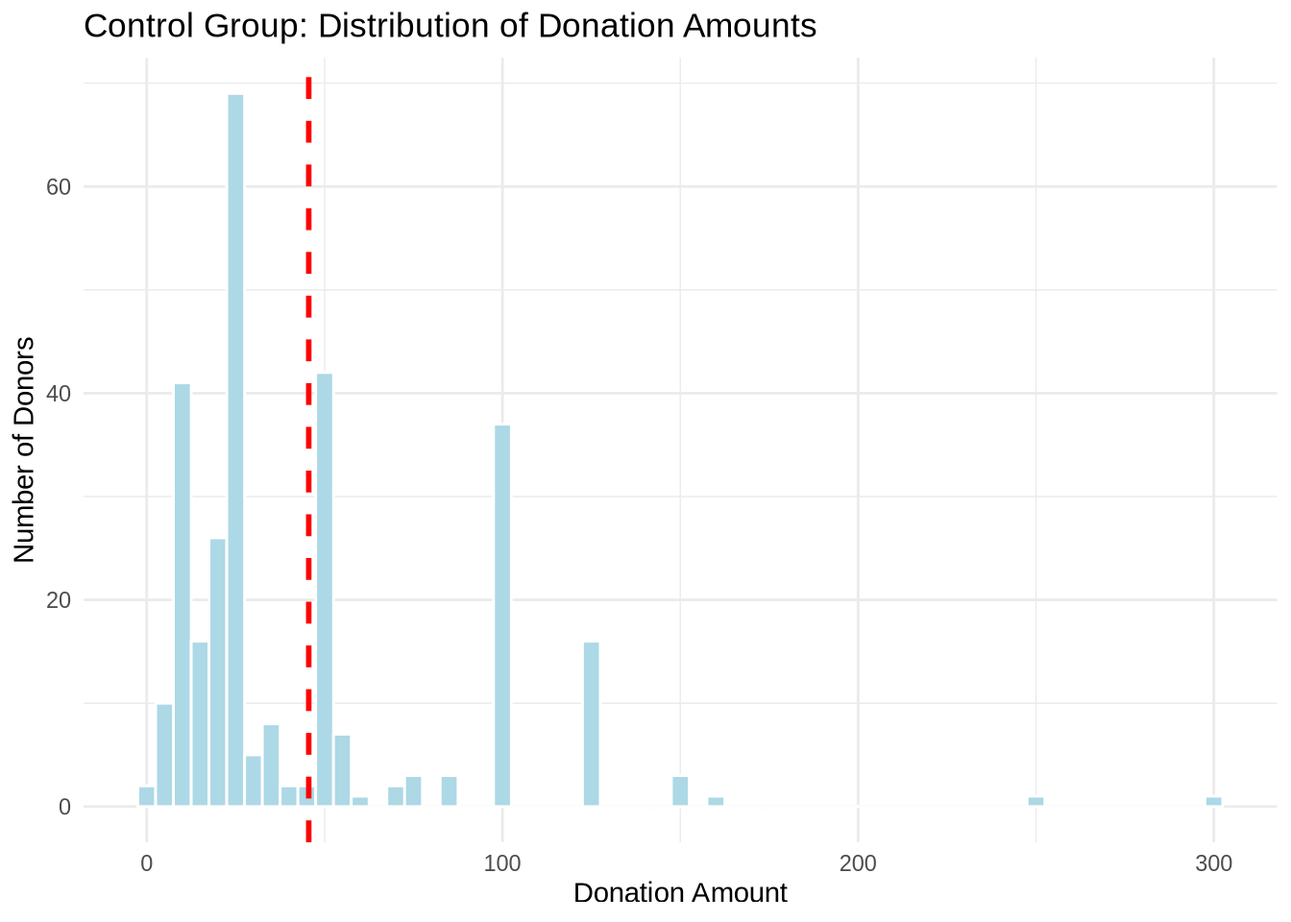
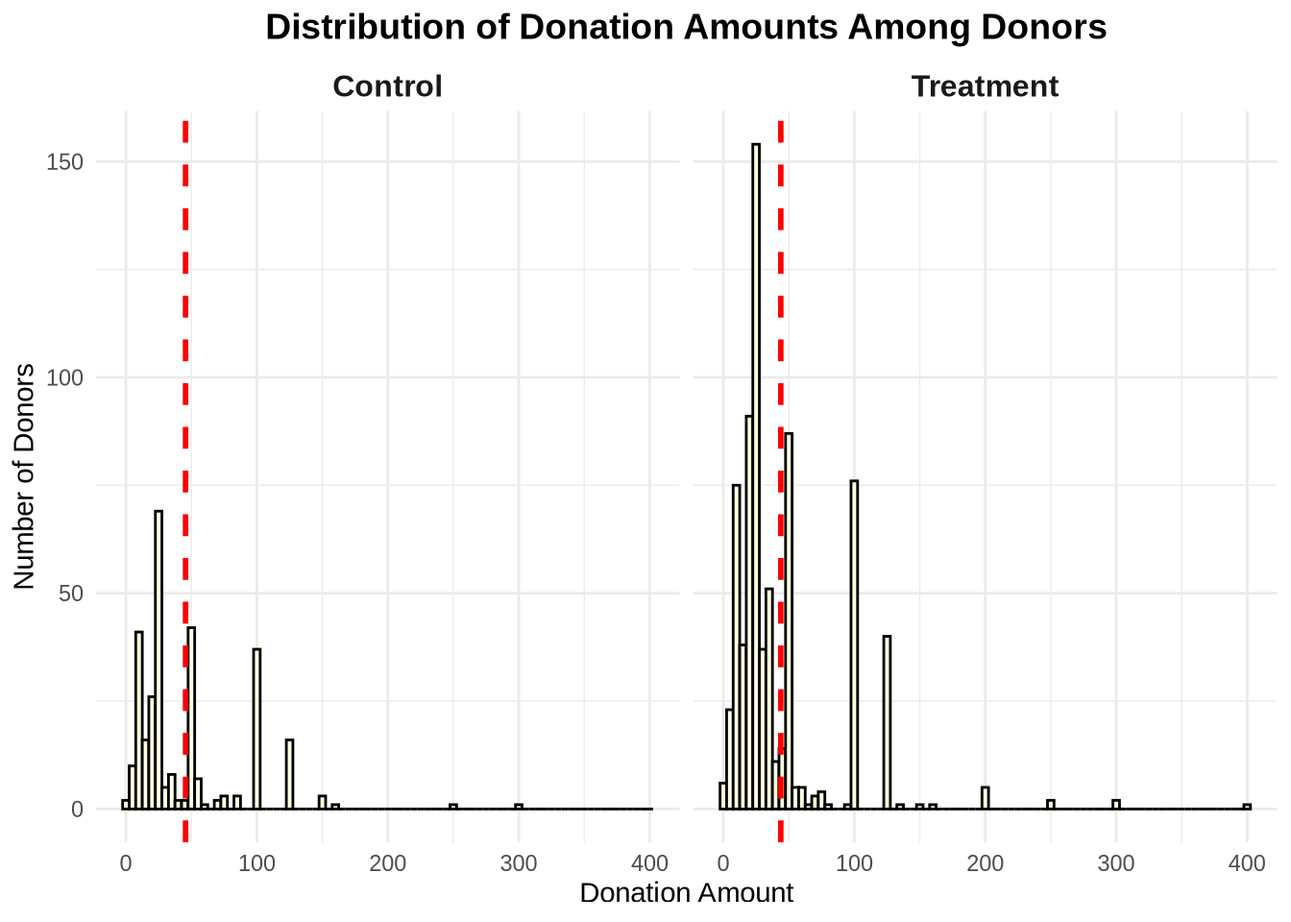
pushh

diff --git a/docs/projects/project2/hw1_questions.html b/docs/projects/project2/hw1_questions.html
@@ -7,7 +7,7 @@
 <meta name="viewport" content="width=device-width, initial-scale=1.0, user-scalable=yes">
 
 <meta name="author" content="Isha Rathi">
-<meta name="dcterms.date" content="2025-04-20">
+<meta name="dcterms.date" content="2025-04-21">
 
 <title>A Replication of Karlan and List (2007) – Isha’s Marketing Website</title>
 <style>
@@ -210,7 +210,7 @@ pre > code.sourceCode > span > a:first-child::before { text-decoration: underlin
     <div>
     <div class="quarto-title-meta-heading">Published</div>
     <div class="quarto-title-meta-contents">
-      <p class="date">April 20, 2025</p>
+      <p class="date">April 21, 2025</p>
     </div>
   </div>
   
@@ -806,19 +806,34 @@ Variable Definitions
 <span id="cb36-4"><a href="#cb36-4" aria-hidden="true" tabindex="-1"></a><span class="co"># Filter to only donors</span></span>
 <span id="cb36-5"><a href="#cb36-5" aria-hidden="true" tabindex="-1"></a>df_donors <span class="ot">&lt;-</span> df <span class="sc">%&gt;%</span> <span class="fu">filter</span>(gave <span class="sc">==</span> <span class="dv">1</span>)</span>
 <span id="cb36-6"><a href="#cb36-6" aria-hidden="true" tabindex="-1"></a></span>
-<span id="cb36-7"><a href="#cb36-7" aria-hidden="true" tabindex="-1"></a><span class="co"># Compute group means</span></span>
-<span id="cb36-8"><a href="#cb36-8" aria-hidden="true" tabindex="-1"></a>mean_donations <span class="ot">&lt;-</span> df_donors <span class="sc">%&gt;%</span></span>
-<span id="cb36-9"><a href="#cb36-9" aria-hidden="true" tabindex="-1"></a>  <span class="fu">group_by</span>(treatment) <span class="sc">%&gt;%</span></span>
-<span id="cb36-10"><a href="#cb36-10" aria-hidden="true" tabindex="-1"></a>  <span class="fu">summarise</span>(<span class="at">avg =</span> <span class="fu">mean</span>(amount))</span>
-<span id="cb36-11"><a href="#cb36-11" aria-hidden="true" tabindex="-1"></a></span>
-<span id="cb36-12"><a href="#cb36-12" aria-hidden="true" tabindex="-1"></a><span class="co"># Histogram for Control Group</span></span>
-<span id="cb36-13"><a href="#cb36-13" aria-hidden="true" tabindex="-1"></a><span class="fu">ggplot</span>(df_donors <span class="sc">%&gt;%</span> <span class="fu">filter</span>(treatment <span class="sc">==</span> <span class="dv">0</span>), <span class="fu">aes</span>(<span class="at">x =</span> amount)) <span class="sc">+</span></span>
-<span id="cb36-14"><a href="#cb36-14" aria-hidden="true" tabindex="-1"></a>  <span class="fu">geom_histogram</span>(<span class="at">binwidth =</span> <span class="dv">5</span>, <span class="at">fill =</span> <span class="st">"lightblue"</span>, <span class="at">color =</span> <span class="st">"white"</span>) <span class="sc">+</span></span>
-<span id="cb36-15"><a href="#cb36-15" aria-hidden="true" tabindex="-1"></a>  <span class="fu">geom_vline</span>(<span class="at">xintercept =</span> mean_donations<span class="sc">$</span>avg[mean_donations<span class="sc">$</span>treatment <span class="sc">==</span> <span class="dv">0</span>],</span>
-<span id="cb36-16"><a href="#cb36-16" aria-hidden="true" tabindex="-1"></a>             <span class="at">color =</span> <span class="st">"red"</span>, <span class="at">linetype =</span> <span class="st">"dashed"</span>, <span class="at">linewidth =</span> <span class="dv">1</span>) <span class="sc">+</span></span>
-<span id="cb36-17"><a href="#cb36-17" aria-hidden="true" tabindex="-1"></a>  <span class="fu">labs</span>(<span class="at">title =</span> <span class="st">"Control Group: Distribution of Donation Amounts"</span>,</span>
-<span id="cb36-18"><a href="#cb36-18" aria-hidden="true" tabindex="-1"></a>       <span class="at">x =</span> <span class="st">"Donation Amount"</span>, <span class="at">y =</span> <span class="st">"Number of Donors"</span>) <span class="sc">+</span></span>
-<span id="cb36-19"><a href="#cb36-19" aria-hidden="true" tabindex="-1"></a>  <span class="fu">theme_minimal</span>()</span></code><button title="Copy to Clipboard" class="code-copy-button"><i class="bi"></i></button></pre></div>
+<span id="cb36-7"><a href="#cb36-7" aria-hidden="true" tabindex="-1"></a><span class="co"># Add group label</span></span>
+<span id="cb36-8"><a href="#cb36-8" aria-hidden="true" tabindex="-1"></a>df_donors <span class="ot">&lt;-</span> df_donors <span class="sc">%&gt;%</span></span>
+<span id="cb36-9"><a href="#cb36-9" aria-hidden="true" tabindex="-1"></a>  <span class="fu">mutate</span>(<span class="at">group =</span> <span class="fu">ifelse</span>(treatment <span class="sc">==</span> <span class="dv">1</span>, <span class="st">"Treatment"</span>, <span class="st">"Control"</span>))</span>
+<span id="cb36-10"><a href="#cb36-10" aria-hidden="true" tabindex="-1"></a></span>
+<span id="cb36-11"><a href="#cb36-11" aria-hidden="true" tabindex="-1"></a><span class="co"># Compute group means for vlines</span></span>
+<span id="cb36-12"><a href="#cb36-12" aria-hidden="true" tabindex="-1"></a>mean_donations <span class="ot">&lt;-</span> df_donors <span class="sc">%&gt;%</span></span>
+<span id="cb36-13"><a href="#cb36-13" aria-hidden="true" tabindex="-1"></a>  <span class="fu">group_by</span>(group) <span class="sc">%&gt;%</span></span>
+<span id="cb36-14"><a href="#cb36-14" aria-hidden="true" tabindex="-1"></a>  <span class="fu">summarise</span>(<span class="at">avg =</span> <span class="fu">mean</span>(amount), <span class="at">.groups =</span> <span class="st">"drop"</span>)</span>
+<span id="cb36-15"><a href="#cb36-15" aria-hidden="true" tabindex="-1"></a></span>
+<span id="cb36-16"><a href="#cb36-16" aria-hidden="true" tabindex="-1"></a><span class="co"># Merge means back into original data</span></span>
+<span id="cb36-17"><a href="#cb36-17" aria-hidden="true" tabindex="-1"></a>df_donors <span class="ot">&lt;-</span> df_donors <span class="sc">%&gt;%</span></span>
+<span id="cb36-18"><a href="#cb36-18" aria-hidden="true" tabindex="-1"></a>  <span class="fu">left_join</span>(mean_donations, <span class="at">by =</span> <span class="st">"group"</span>)</span>
+<span id="cb36-19"><a href="#cb36-19" aria-hidden="true" tabindex="-1"></a></span>
+<span id="cb36-20"><a href="#cb36-20" aria-hidden="true" tabindex="-1"></a><span class="co"># Plot using facet_wrap</span></span>
+<span id="cb36-21"><a href="#cb36-21" aria-hidden="true" tabindex="-1"></a><span class="fu">ggplot</span>(df_donors, <span class="fu">aes</span>(<span class="at">x =</span> amount)) <span class="sc">+</span></span>
+<span id="cb36-22"><a href="#cb36-22" aria-hidden="true" tabindex="-1"></a>  <span class="fu">geom_histogram</span>(<span class="at">binwidth =</span> <span class="dv">5</span>, <span class="at">fill =</span> <span class="st">"lightyellow"</span>, <span class="at">color =</span> <span class="st">"black"</span>) <span class="sc">+</span></span>
+<span id="cb36-23"><a href="#cb36-23" aria-hidden="true" tabindex="-1"></a>  <span class="fu">geom_vline</span>(<span class="fu">aes</span>(<span class="at">xintercept =</span> avg), <span class="at">color =</span> <span class="st">"red"</span>, <span class="at">linetype =</span> <span class="st">"dashed"</span>, <span class="at">linewidth =</span> <span class="dv">1</span>) <span class="sc">+</span></span>
+<span id="cb36-24"><a href="#cb36-24" aria-hidden="true" tabindex="-1"></a>  <span class="fu">facet_wrap</span>(<span class="sc">~</span> group, <span class="at">ncol =</span> <span class="dv">2</span>) <span class="sc">+</span></span>
+<span id="cb36-25"><a href="#cb36-25" aria-hidden="true" tabindex="-1"></a>  <span class="fu">labs</span>(</span>
+<span id="cb36-26"><a href="#cb36-26" aria-hidden="true" tabindex="-1"></a>    <span class="at">title =</span> <span class="st">"Distribution of Donation Amounts Among Donors"</span>,</span>
+<span id="cb36-27"><a href="#cb36-27" aria-hidden="true" tabindex="-1"></a>    <span class="at">x =</span> <span class="st">"Donation Amount"</span>,</span>
+<span id="cb36-28"><a href="#cb36-28" aria-hidden="true" tabindex="-1"></a>    <span class="at">y =</span> <span class="st">"Number of Donors"</span></span>
+<span id="cb36-29"><a href="#cb36-29" aria-hidden="true" tabindex="-1"></a>  ) <span class="sc">+</span></span>
+<span id="cb36-30"><a href="#cb36-30" aria-hidden="true" tabindex="-1"></a>  <span class="fu">theme_minimal</span>() <span class="sc">+</span></span>
+<span id="cb36-31"><a href="#cb36-31" aria-hidden="true" tabindex="-1"></a>  <span class="fu">theme</span>(</span>
+<span id="cb36-32"><a href="#cb36-32" aria-hidden="true" tabindex="-1"></a>    <span class="at">plot.title =</span> <span class="fu">element_text</span>(<span class="at">hjust =</span> <span class="fl">0.5</span>, <span class="at">face =</span> <span class="st">"bold"</span>, <span class="at">size =</span> <span class="dv">14</span>),</span>
+<span id="cb36-33"><a href="#cb36-33" aria-hidden="true" tabindex="-1"></a>    <span class="at">strip.text =</span> <span class="fu">element_text</span>(<span class="at">size =</span> <span class="dv">12</span>, <span class="at">face =</span> <span class="st">"bold"</span>)</span>
+<span id="cb36-34"><a href="#cb36-34" aria-hidden="true" tabindex="-1"></a>  )</span></code><button title="Copy to Clipboard" class="code-copy-button"><i class="bi"></i></button></pre></div>
 <div class="cell-output-display">
 <div>
 <figure class="figure">
@@ -827,23 +842,11 @@ Variable Definitions
 </div>
 </div>
 </div>
-<div class="cell">
-<div class="sourceCode cell-code" id="cb37"><pre class="sourceCode r code-with-copy"><code class="sourceCode r"><span id="cb37-1"><a href="#cb37-1" aria-hidden="true" tabindex="-1"></a><span class="co"># Histogram for Treatment Group</span></span>
-<span id="cb37-2"><a href="#cb37-2" aria-hidden="true" tabindex="-1"></a><span class="fu">ggplot</span>(df_donors <span class="sc">%&gt;%</span> <span class="fu">filter</span>(treatment <span class="sc">==</span> <span class="dv">1</span>), <span class="fu">aes</span>(<span class="at">x =</span> amount)) <span class="sc">+</span></span>
-<span id="cb37-3"><a href="#cb37-3" aria-hidden="true" tabindex="-1"></a>  <span class="fu">geom_histogram</span>(<span class="at">binwidth =</span> <span class="dv">5</span>, <span class="at">fill =</span> <span class="st">"orange"</span>, <span class="at">color =</span> <span class="st">"white"</span>) <span class="sc">+</span></span>
-<span id="cb37-4"><a href="#cb37-4" aria-hidden="true" tabindex="-1"></a>  <span class="fu">geom_vline</span>(<span class="at">xintercept =</span> mean_donations<span class="sc">$</span>avg[mean_donations<span class="sc">$</span>treatment <span class="sc">==</span> <span class="dv">1</span>],</span>
-<span id="cb37-5"><a href="#cb37-5" aria-hidden="true" tabindex="-1"></a>             <span class="at">color =</span> <span class="st">"red"</span>, <span class="at">linetype =</span> <span class="st">"dashed"</span>, <span class="at">linewidth =</span> <span class="dv">1</span>) <span class="sc">+</span></span>
-<span id="cb37-6"><a href="#cb37-6" aria-hidden="true" tabindex="-1"></a>  <span class="fu">labs</span>(<span class="at">title =</span> <span class="st">"Treatment Group: Distribution of Donation Amounts"</span>,</span>
-<span id="cb37-7"><a href="#cb37-7" aria-hidden="true" tabindex="-1"></a>       <span class="at">x =</span> <span class="st">"Donation Amount"</span>, <span class="at">y =</span> <span class="st">"Number of Donors"</span>) <span class="sc">+</span></span>
-<span id="cb37-8"><a href="#cb37-8" aria-hidden="true" tabindex="-1"></a>  <span class="fu">theme_minimal</span>()</span></code><button title="Copy to Clipboard" class="code-copy-button"><i class="bi"></i></button></pre></div>
-<div class="cell-output-display">
-<div>
-<figure class="figure">
-<p><img src="hw1_questions_files/figure-html/unnamed-chunk-18-1.png" class="img-fluid figure-img" width="672"></p>
-</figure>
-</div>
-</div>
-</div>
+<p><strong>Interpretation</strong> The histograms above show the distribution of donation amounts among individuals who chose to donate, separated by treatment group.</p>
+<p>The red dashed line in each panel marks the mean donation for that group.</p>
+<p>Visually, both distributions are heavily right-skewed, with most donations clustered below $100 but a few large contributions stretching the range. The mean donation is very similar between the treatment and control groups, consistent with earlier statistical results (like the conditional t-test and regression).</p>
+<p>This supports the conclusion that while the matching offer increased the likelihood of giving, it did not significantly affect how much donors gave once they decided to give.</p>
+<p>In other words: the treatment affected the extensive margin (whether to give), not the intensive margin (how much to give).</p>
 </section>
 </section>
 <section id="simulation-experiment" class="level2">
@@ -860,28 +863,56 @@ Variable Definitions
 <li>100,000 draws each, and plot the running average of the differences.</li>
 </ul>
 <div class="cell">
-<div class="sourceCode cell-code" id="cb38"><pre class="sourceCode r code-with-copy"><code class="sourceCode r"><span id="cb38-1"><a href="#cb38-1" aria-hidden="true" tabindex="-1"></a><span class="fu">set.seed</span>(<span class="dv">123</span>)  <span class="co"># for reproducibility</span></span>
-<span id="cb38-2"><a href="#cb38-2" aria-hidden="true" tabindex="-1"></a></span>
-<span id="cb38-3"><a href="#cb38-3" aria-hidden="true" tabindex="-1"></a><span class="co"># Simulate outcomes</span></span>
-<span id="cb38-4"><a href="#cb38-4" aria-hidden="true" tabindex="-1"></a>control_sim <span class="ot">&lt;-</span> <span class="fu">rbinom</span>(<span class="dv">100000</span>, <span class="dv">1</span>, <span class="fl">0.018</span>)</span>
-<span id="cb38-5"><a href="#cb38-5" aria-hidden="true" tabindex="-1"></a>treat_sim <span class="ot">&lt;-</span> <span class="fu">rbinom</span>(<span class="dv">100000</span>, <span class="dv">1</span>, <span class="fl">0.022</span>)</span>
-<span id="cb38-6"><a href="#cb38-6" aria-hidden="true" tabindex="-1"></a></span>
-<span id="cb38-7"><a href="#cb38-7" aria-hidden="true" tabindex="-1"></a><span class="co"># Difference in donations</span></span>
-<span id="cb38-8"><a href="#cb38-8" aria-hidden="true" tabindex="-1"></a>diffs <span class="ot">&lt;-</span> treat_sim <span class="sc">-</span> control_sim</span>
-<span id="cb38-9"><a href="#cb38-9" aria-hidden="true" tabindex="-1"></a></span>
-<span id="cb38-10"><a href="#cb38-10" aria-hidden="true" tabindex="-1"></a><span class="co"># Cumulative average of the differences</span></span>
-<span id="cb38-11"><a href="#cb38-11" aria-hidden="true" tabindex="-1"></a>cum_avg <span class="ot">&lt;-</span> <span class="fu">cumsum</span>(diffs) <span class="sc">/</span> <span class="fu">seq_along</span>(diffs)</span>
-<span id="cb38-12"><a href="#cb38-12" aria-hidden="true" tabindex="-1"></a></span>
-<span id="cb38-13"><a href="#cb38-13" aria-hidden="true" tabindex="-1"></a><span class="co"># Plot cumulative average</span></span>
-<span id="cb38-14"><a href="#cb38-14" aria-hidden="true" tabindex="-1"></a><span class="fu">plot</span>(cum_avg, <span class="at">type =</span> <span class="st">"l"</span>, <span class="at">col =</span> <span class="st">"steelblue"</span>,</span>
-<span id="cb38-15"><a href="#cb38-15" aria-hidden="true" tabindex="-1"></a>     <span class="at">xlab =</span> <span class="st">"Number of Simulated Respondents"</span>,</span>
-<span id="cb38-16"><a href="#cb38-16" aria-hidden="true" tabindex="-1"></a>     <span class="at">ylab =</span> <span class="st">"Cumulative Average (Treatment - Control)"</span>,</span>
-<span id="cb38-17"><a href="#cb38-17" aria-hidden="true" tabindex="-1"></a>     <span class="at">main =</span> <span class="st">"Law of Large Numbers: Cumulative Difference in Donation Rates"</span>)</span>
-<span id="cb38-18"><a href="#cb38-18" aria-hidden="true" tabindex="-1"></a><span class="fu">abline</span>(<span class="at">h =</span> <span class="fl">0.004</span>, <span class="at">col =</span> <span class="st">"red"</span>, <span class="at">lty =</span> <span class="dv">2</span>)  <span class="co"># true difference</span></span></code><button title="Copy to Clipboard" class="code-copy-button"><i class="bi"></i></button></pre></div>
+<div class="sourceCode cell-code" id="cb37"><pre class="sourceCode r code-with-copy"><code class="sourceCode r"><span id="cb37-1"><a href="#cb37-1" aria-hidden="true" tabindex="-1"></a><span class="fu">set.seed</span>(<span class="dv">123</span>)  <span class="co"># for reproducibility</span></span>
+<span id="cb37-2"><a href="#cb37-2" aria-hidden="true" tabindex="-1"></a></span>
+<span id="cb37-3"><a href="#cb37-3" aria-hidden="true" tabindex="-1"></a><span class="co"># Simulate outcomes</span></span>
+<span id="cb37-4"><a href="#cb37-4" aria-hidden="true" tabindex="-1"></a>control_sim <span class="ot">&lt;-</span> <span class="fu">rbinom</span>(<span class="dv">100000</span>, <span class="dv">1</span>, <span class="fl">0.018</span>)</span>
+<span id="cb37-5"><a href="#cb37-5" aria-hidden="true" tabindex="-1"></a>treat_sim <span class="ot">&lt;-</span> <span class="fu">rbinom</span>(<span class="dv">10000</span>, <span class="dv">1</span>, <span class="fl">0.022</span>)</span>
+<span id="cb37-6"><a href="#cb37-6" aria-hidden="true" tabindex="-1"></a></span>
+<span id="cb37-7"><a href="#cb37-7" aria-hidden="true" tabindex="-1"></a><span class="co"># Difference in donations</span></span>
+<span id="cb37-8"><a href="#cb37-8" aria-hidden="true" tabindex="-1"></a>diffs <span class="ot">&lt;-</span> treat_sim <span class="sc">-</span> control_sim[<span class="dv">1</span><span class="sc">:</span><span class="dv">10000</span>]</span>
+<span id="cb37-9"><a href="#cb37-9" aria-hidden="true" tabindex="-1"></a></span>
+<span id="cb37-10"><a href="#cb37-10" aria-hidden="true" tabindex="-1"></a><span class="co"># Cumulative average of the differences</span></span>
+<span id="cb37-11"><a href="#cb37-11" aria-hidden="true" tabindex="-1"></a>cum_avg <span class="ot">&lt;-</span> <span class="fu">cumsum</span>(diffs) <span class="sc">/</span> <span class="fu">seq_along</span>(diffs)</span>
+<span id="cb37-12"><a href="#cb37-12" aria-hidden="true" tabindex="-1"></a><span class="co"># Plot</span></span>
+<span id="cb37-13"><a href="#cb37-13" aria-hidden="true" tabindex="-1"></a><span class="fu">library</span>(ggplot2)</span>
+<span id="cb37-14"><a href="#cb37-14" aria-hidden="true" tabindex="-1"></a>df <span class="ot">&lt;-</span> <span class="fu">data.frame</span>(</span>
+<span id="cb37-15"><a href="#cb37-15" aria-hidden="true" tabindex="-1"></a>  <span class="at">Simulations =</span> <span class="dv">1</span><span class="sc">:</span><span class="dv">10000</span>,</span>
+<span id="cb37-16"><a href="#cb37-16" aria-hidden="true" tabindex="-1"></a>  <span class="at">CumulativeAverage =</span> cum_avg</span>
+<span id="cb37-17"><a href="#cb37-17" aria-hidden="true" tabindex="-1"></a>)</span>
+<span id="cb37-18"><a href="#cb37-18" aria-hidden="true" tabindex="-1"></a></span>
+<span id="cb37-19"><a href="#cb37-19" aria-hidden="true" tabindex="-1"></a><span class="fu">ggplot</span>(df, <span class="fu">aes</span>(<span class="at">x =</span> Simulations)) <span class="sc">+</span></span>
+<span id="cb37-20"><a href="#cb37-20" aria-hidden="true" tabindex="-1"></a>  <span class="fu">geom_line</span>(<span class="fu">aes</span>(<span class="at">y =</span> CumulativeAverage, <span class="at">color =</span> <span class="st">"Cumulative Average of Differences"</span>), <span class="at">size =</span> <span class="fl">0.7</span>) <span class="sc">+</span></span>
+<span id="cb37-21"><a href="#cb37-21" aria-hidden="true" tabindex="-1"></a>  <span class="fu">geom_hline</span>(<span class="fu">aes</span>(<span class="at">yintercept =</span> <span class="fl">0.004</span>, <span class="at">color =</span> <span class="st">"True Mean Difference (0.022 - 0.018)"</span>, <span class="at">linetype =</span> <span class="st">"True Mean Difference (0.022 - 0.018)"</span>), <span class="at">size =</span> <span class="dv">1</span>) <span class="sc">+</span></span>
+<span id="cb37-22"><a href="#cb37-22" aria-hidden="true" tabindex="-1"></a>  <span class="fu">scale_color_manual</span>(</span>
+<span id="cb37-23"><a href="#cb37-23" aria-hidden="true" tabindex="-1"></a>    <span class="at">name =</span> <span class="st">""</span>,</span>
+<span id="cb37-24"><a href="#cb37-24" aria-hidden="true" tabindex="-1"></a>    <span class="at">values =</span> <span class="fu">c</span>(</span>
+<span id="cb37-25"><a href="#cb37-25" aria-hidden="true" tabindex="-1"></a>      <span class="st">"Cumulative Average of Differences"</span> <span class="ot">=</span> <span class="st">"#1f77b4"</span>,</span>
+<span id="cb37-26"><a href="#cb37-26" aria-hidden="true" tabindex="-1"></a>      <span class="st">"True Mean Difference (0.022 - 0.018)"</span> <span class="ot">=</span> <span class="st">"red"</span></span>
+<span id="cb37-27"><a href="#cb37-27" aria-hidden="true" tabindex="-1"></a>    )</span>
+<span id="cb37-28"><a href="#cb37-28" aria-hidden="true" tabindex="-1"></a>  ) <span class="sc">+</span></span>
+<span id="cb37-29"><a href="#cb37-29" aria-hidden="true" tabindex="-1"></a>  <span class="fu">scale_linetype_manual</span>(</span>
+<span id="cb37-30"><a href="#cb37-30" aria-hidden="true" tabindex="-1"></a>    <span class="at">name =</span> <span class="st">""</span>,</span>
+<span id="cb37-31"><a href="#cb37-31" aria-hidden="true" tabindex="-1"></a>    <span class="at">values =</span> <span class="fu">c</span>(<span class="st">"True Mean Difference (0.022 - 0.018)"</span> <span class="ot">=</span> <span class="st">"dashed"</span>)</span>
+<span id="cb37-32"><a href="#cb37-32" aria-hidden="true" tabindex="-1"></a>  ) <span class="sc">+</span></span>
+<span id="cb37-33"><a href="#cb37-33" aria-hidden="true" tabindex="-1"></a>  <span class="fu">labs</span>(</span>
+<span id="cb37-34"><a href="#cb37-34" aria-hidden="true" tabindex="-1"></a>    <span class="at">title =</span> <span class="st">"Law of Large Numbers: Convergence of Mean Difference"</span>,</span>
+<span id="cb37-35"><a href="#cb37-35" aria-hidden="true" tabindex="-1"></a>    <span class="at">x =</span> <span class="st">"Number of Simulations"</span>,</span>
+<span id="cb37-36"><a href="#cb37-36" aria-hidden="true" tabindex="-1"></a>    <span class="at">y =</span> <span class="st">"Cumulative Average Difference"</span></span>
+<span id="cb37-37"><a href="#cb37-37" aria-hidden="true" tabindex="-1"></a>  ) <span class="sc">+</span></span>
+<span id="cb37-38"><a href="#cb37-38" aria-hidden="true" tabindex="-1"></a>  <span class="fu">theme_minimal</span>(<span class="at">base_size =</span> <span class="dv">14</span>) <span class="sc">+</span></span>
+<span id="cb37-39"><a href="#cb37-39" aria-hidden="true" tabindex="-1"></a>  <span class="fu">theme</span>(</span>
+<span id="cb37-40"><a href="#cb37-40" aria-hidden="true" tabindex="-1"></a>    <span class="at">plot.title =</span> <span class="fu">element_text</span>(<span class="at">hjust =</span> <span class="fl">0.5</span>),</span>
+<span id="cb37-41"><a href="#cb37-41" aria-hidden="true" tabindex="-1"></a>    <span class="at">legend.position =</span> <span class="st">"top"</span></span>
+<span id="cb37-42"><a href="#cb37-42" aria-hidden="true" tabindex="-1"></a>  )</span></code><button title="Copy to Clipboard" class="code-copy-button"><i class="bi"></i></button></pre></div>
+<div class="cell-output cell-output-stderr">
+<pre><code>Warning: Using `size` aesthetic for lines was deprecated in ggplot2 3.4.0.
+ℹ Please use `linewidth` instead.</code></pre>
+</div>
 <div class="cell-output-display">
 <div>
 <figure class="figure">
-<p><img src="hw1_questions_files/figure-html/unnamed-chunk-19-1.png" class="img-fluid figure-img" width="672"></p>
+<p><img src="hw1_questions_files/figure-html/unnamed-chunk-18-1.png" class="img-fluid figure-img" width="672"></p>
 </figure>
 </div>
 </div>
@@ -897,34 +928,30 @@ Variable Definitions
 <div class="cell">
 <div class="sourceCode cell-code" id="cb39"><pre class="sourceCode r code-with-copy"><code class="sourceCode r"><span id="cb39-1"><a href="#cb39-1" aria-hidden="true" tabindex="-1"></a><span class="fu">set.seed</span>(<span class="dv">42</span>)</span>
 <span id="cb39-2"><a href="#cb39-2" aria-hidden="true" tabindex="-1"></a></span>
-<span id="cb39-3"><a href="#cb39-3" aria-hidden="true" tabindex="-1"></a><span class="co"># Simulation parameters</span></span>
-<span id="cb39-4"><a href="#cb39-4" aria-hidden="true" tabindex="-1"></a>sample_sizes <span class="ot">&lt;-</span> <span class="fu">c</span>(<span class="dv">50</span>, <span class="dv">200</span>, <span class="dv">500</span>, <span class="dv">1000</span>)</span>
-<span id="cb39-5"><a href="#cb39-5" aria-hidden="true" tabindex="-1"></a>n_sims <span class="ot">&lt;-</span> <span class="dv">1000</span></span>
-<span id="cb39-6"><a href="#cb39-6" aria-hidden="true" tabindex="-1"></a></span>
-<span id="cb39-7"><a href="#cb39-7" aria-hidden="true" tabindex="-1"></a><span class="co"># Function to simulate average differences for a given sample size</span></span>
-<span id="cb39-8"><a href="#cb39-8" aria-hidden="true" tabindex="-1"></a>simulate_diffs <span class="ot">&lt;-</span> <span class="cf">function</span>(n) {</span>
-<span id="cb39-9"><a href="#cb39-9" aria-hidden="true" tabindex="-1"></a>  <span class="fu">replicate</span>(n_sims, {</span>
+<span id="cb39-3"><a href="#cb39-3" aria-hidden="true" tabindex="-1"></a>sample_sizes <span class="ot">&lt;-</span> <span class="fu">c</span>(<span class="dv">50</span>, <span class="dv">200</span>, <span class="dv">500</span>, <span class="dv">1000</span>)</span>
+<span id="cb39-4"><a href="#cb39-4" aria-hidden="true" tabindex="-1"></a>true_diff <span class="ot">&lt;-</span> <span class="fl">0.022</span> <span class="sc">-</span> <span class="fl">0.018</span></span>
+<span id="cb39-5"><a href="#cb39-5" aria-hidden="true" tabindex="-1"></a></span>
+<span id="cb39-6"><a href="#cb39-6" aria-hidden="true" tabindex="-1"></a><span class="fu">par</span>(<span class="at">mfrow =</span> <span class="fu">c</span>(<span class="dv">2</span>, <span class="dv">2</span>))  <span class="co"># Set up 2x2 grid of plots</span></span>
+<span id="cb39-7"><a href="#cb39-7" aria-hidden="true" tabindex="-1"></a></span>
+<span id="cb39-8"><a href="#cb39-8" aria-hidden="true" tabindex="-1"></a><span class="cf">for</span> (n <span class="cf">in</span> sample_sizes) {</span>
+<span id="cb39-9"><a href="#cb39-9" aria-hidden="true" tabindex="-1"></a>  diffs <span class="ot">&lt;-</span> <span class="fu">replicate</span>(<span class="dv">1000</span>, {</span>
 <span id="cb39-10"><a href="#cb39-10" aria-hidden="true" tabindex="-1"></a>    control <span class="ot">&lt;-</span> <span class="fu">rbinom</span>(n, <span class="dv">1</span>, <span class="fl">0.018</span>)</span>
-<span id="cb39-11"><a href="#cb39-11" aria-hidden="true" tabindex="-1"></a>    treat <span class="ot">&lt;-</span> <span class="fu">rbinom</span>(n, <span class="dv">1</span>, <span class="fl">0.022</span>)</span>
-<span id="cb39-12"><a href="#cb39-12" aria-hidden="true" tabindex="-1"></a>    <span class="fu">mean</span>(treat) <span class="sc">-</span> <span class="fu">mean</span>(control)</span>
+<span id="cb39-11"><a href="#cb39-11" aria-hidden="true" tabindex="-1"></a>    treatment <span class="ot">&lt;-</span> <span class="fu">rbinom</span>(n, <span class="dv">1</span>, <span class="fl">0.022</span>)</span>
+<span id="cb39-12"><a href="#cb39-12" aria-hidden="true" tabindex="-1"></a>    <span class="fu">mean</span>(treatment) <span class="sc">-</span> <span class="fu">mean</span>(control)</span>
 <span id="cb39-13"><a href="#cb39-13" aria-hidden="true" tabindex="-1"></a>  })</span>
-<span id="cb39-14"><a href="#cb39-14" aria-hidden="true" tabindex="-1"></a>}</span>
-<span id="cb39-15"><a href="#cb39-15" aria-hidden="true" tabindex="-1"></a></span>
-<span id="cb39-16"><a href="#cb39-16" aria-hidden="true" tabindex="-1"></a><span class="co"># Run simulations</span></span>
-<span id="cb39-17"><a href="#cb39-17" aria-hidden="true" tabindex="-1"></a>diff_list <span class="ot">&lt;-</span> <span class="fu">lapply</span>(sample_sizes, simulate_diffs)</span>
-<span id="cb39-18"><a href="#cb39-18" aria-hidden="true" tabindex="-1"></a><span class="fu">names</span>(diff_list) <span class="ot">&lt;-</span> <span class="fu">paste</span>(<span class="st">"n ="</span>, sample_sizes)</span>
-<span id="cb39-19"><a href="#cb39-19" aria-hidden="true" tabindex="-1"></a></span>
-<span id="cb39-20"><a href="#cb39-20" aria-hidden="true" tabindex="-1"></a><span class="co"># Plot histograms</span></span>
-<span id="cb39-21"><a href="#cb39-21" aria-hidden="true" tabindex="-1"></a><span class="fu">par</span>(<span class="at">mfrow =</span> <span class="fu">c</span>(<span class="dv">2</span>, <span class="dv">2</span>))</span>
-<span id="cb39-22"><a href="#cb39-22" aria-hidden="true" tabindex="-1"></a><span class="cf">for</span> (i <span class="cf">in</span> <span class="fu">seq_along</span>(diff_list)) {</span>
-<span id="cb39-23"><a href="#cb39-23" aria-hidden="true" tabindex="-1"></a>  <span class="fu">hist</span>(diff_list[[i]], <span class="at">breaks =</span> <span class="dv">30</span>, <span class="at">main =</span> <span class="fu">paste</span>(<span class="st">"Sample Size"</span>, sample_sizes[i]),</span>
-<span id="cb39-24"><a href="#cb39-24" aria-hidden="true" tabindex="-1"></a>       <span class="at">xlab =</span> <span class="st">"Average Treatment - Control"</span>, <span class="at">col =</span> <span class="st">"lightblue"</span>, <span class="at">border =</span> <span class="st">"white"</span>)</span>
-<span id="cb39-25"><a href="#cb39-25" aria-hidden="true" tabindex="-1"></a>  <span class="fu">abline</span>(<span class="at">v =</span> <span class="dv">0</span>, <span class="at">col =</span> <span class="st">"red"</span>, <span class="at">lwd =</span> <span class="dv">2</span>, <span class="at">lty =</span> <span class="dv">2</span>)</span>
-<span id="cb39-26"><a href="#cb39-26" aria-hidden="true" tabindex="-1"></a>}</span></code><button title="Copy to Clipboard" class="code-copy-button"><i class="bi"></i></button></pre></div>
+<span id="cb39-14"><a href="#cb39-14" aria-hidden="true" tabindex="-1"></a>  </span>
+<span id="cb39-15"><a href="#cb39-15" aria-hidden="true" tabindex="-1"></a>  <span class="fu">hist</span>(diffs, <span class="at">breaks =</span> <span class="dv">30</span>, <span class="at">col =</span> <span class="st">"lightblue"</span>, <span class="at">border =</span> <span class="st">"black"</span>,</span>
+<span id="cb39-16"><a href="#cb39-16" aria-hidden="true" tabindex="-1"></a>       <span class="at">main =</span> <span class="fu">paste</span>(<span class="st">"Sample Size:"</span>, n),</span>
+<span id="cb39-17"><a href="#cb39-17" aria-hidden="true" tabindex="-1"></a>       <span class="at">xlab =</span> <span class="st">"Average (Treatment - Control)"</span>)</span>
+<span id="cb39-18"><a href="#cb39-18" aria-hidden="true" tabindex="-1"></a>  <span class="fu">abline</span>(<span class="at">v =</span> <span class="dv">0</span>, <span class="at">col =</span> <span class="st">"black"</span>, <span class="at">lty =</span> <span class="dv">2</span>)</span>
+<span id="cb39-19"><a href="#cb39-19" aria-hidden="true" tabindex="-1"></a>  <span class="fu">abline</span>(<span class="at">v =</span> true_diff, <span class="at">col =</span> <span class="st">"red"</span>, <span class="at">lty =</span> <span class="dv">2</span>)</span>
+<span id="cb39-20"><a href="#cb39-20" aria-hidden="true" tabindex="-1"></a>  <span class="fu">legend</span>(<span class="st">"topright"</span>, <span class="at">legend =</span> <span class="fu">sprintf</span>(<span class="st">"True Diff = %.4f"</span>, true_diff),</span>
+<span id="cb39-21"><a href="#cb39-21" aria-hidden="true" tabindex="-1"></a>         <span class="at">lty =</span> <span class="dv">2</span>, <span class="at">col =</span> <span class="st">"red"</span>, <span class="at">bty =</span> <span class="st">"n"</span>)</span>
+<span id="cb39-22"><a href="#cb39-22" aria-hidden="true" tabindex="-1"></a>}</span></code><button title="Copy to Clipboard" class="code-copy-button"><i class="bi"></i></button></pre></div>
 <div class="cell-output-display">
 <div>
 <figure class="figure">
-<p><img src="hw1_questions_files/figure-html/unnamed-chunk-20-1.png" class="img-fluid figure-img" width="672"></p>
+<p><img src="hw1_questions_files/figure-html/unnamed-chunk-19-1.png" class="img-fluid figure-img" width="672"></p>
 </figure>
 </div>
 </div>

diff --git a/docs/projects.html b/docs/projects.html
@@ -7,7 +7,7 @@
 <meta name="viewport" content="width=device-width, initial-scale=1.0, user-scalable=yes">
 
 
-<title>My Projects – Isha’s Markerting Website</title>
+<title>My Projects – Isha’s Marketing Website</title>
 <style>
 code{white-space: pre-wrap;}
 span.smallcaps{font-variant: small-caps;}
@@ -139,7 +139,7 @@ window.Quarto = {
       <div class="navbar-container container-fluid">
       <div class="navbar-brand-container mx-auto">
     <a class="navbar-brand" href="./index.html">
-    <span class="navbar-title">Isha’s Markerting Website</span>
+    <span class="navbar-title">Isha’s Marketing Website</span>
     </a>
   </div>
             <div id="quarto-search" class="" title="Search"></div>
@@ -202,7 +202,7 @@ window.Quarto = {
 
 <div class="quarto-listing quarto-listing-container-grid" id="listing-listing">
 <div class="list grid quarto-listing-cols-3">
-<div class="g-col-1" data-index="0" data-listing-date-sort="1745132400000" data-listing-file-modified-sort="1745201322614" data-listing-date-modified-sort="NaN" data-listing-reading-time-sort="29" data-listing-word-count-sort="5613">
+<div class="g-col-1" data-index="0" data-listing-date-sort="1745218800000" data-listing-file-modified-sort="1745287896442" data-listing-date-modified-sort="NaN" data-listing-reading-time-sort="30" data-listing-word-count-sort="5855">
 <a href="./projects/project2/hw1_questions.html" class="quarto-grid-link">
 <div class="quarto-grid-item card h-100 card-left">
 <p class="card-img-top"><img src="projects/project2/hw1_questions_files/figure-html/unnamed-chunk-5-1.png" style="height: 150px;"  class="thumbnail-image card-img"/></p>
@@ -218,14 +218,14 @@ Dean Karlan at Yale and John List at the University of Chicago conducted a field
 Isha Rathi
 </div>
 <div class="listing-date">
-Apr 20, 2025
+Apr 21, 2025
 </div>
 </div>
 </div>
 </div>
 </a>
 </div>
-<div class="g-col-1" data-index="1" data-listing-date-sort="1745132400000" data-listing-file-modified-sort="1744299521479" data-listing-date-modified-sort="NaN" data-listing-reading-time-sort="1" data-listing-word-count-sort="43">
+<div class="g-col-1" data-index="1" data-listing-date-sort="1745218800000" data-listing-file-modified-sort="1744299521479" data-listing-date-modified-sort="NaN" data-listing-reading-time-sort="1" data-listing-word-count-sort="43">
 <a href="./projects/project1/index.html" class="quarto-grid-link">
 <div class="quarto-grid-item card h-100 card-left">
 <p class="card-img-top"><img src="projects/project1/index_files/figure-html/unnamed-chunk-1-1.png" style="height: 150px;"  class="thumbnail-image card-img"/></p>
@@ -241,7 +241,7 @@ Let’s investigate the relationship between fuel efficiency (<code>mpg</code>) 
 Your Name
 </div>
 <div class="listing-date">
-Apr 20, 2025
+Apr 21, 2025
 </div>
 </div>
 </div>
